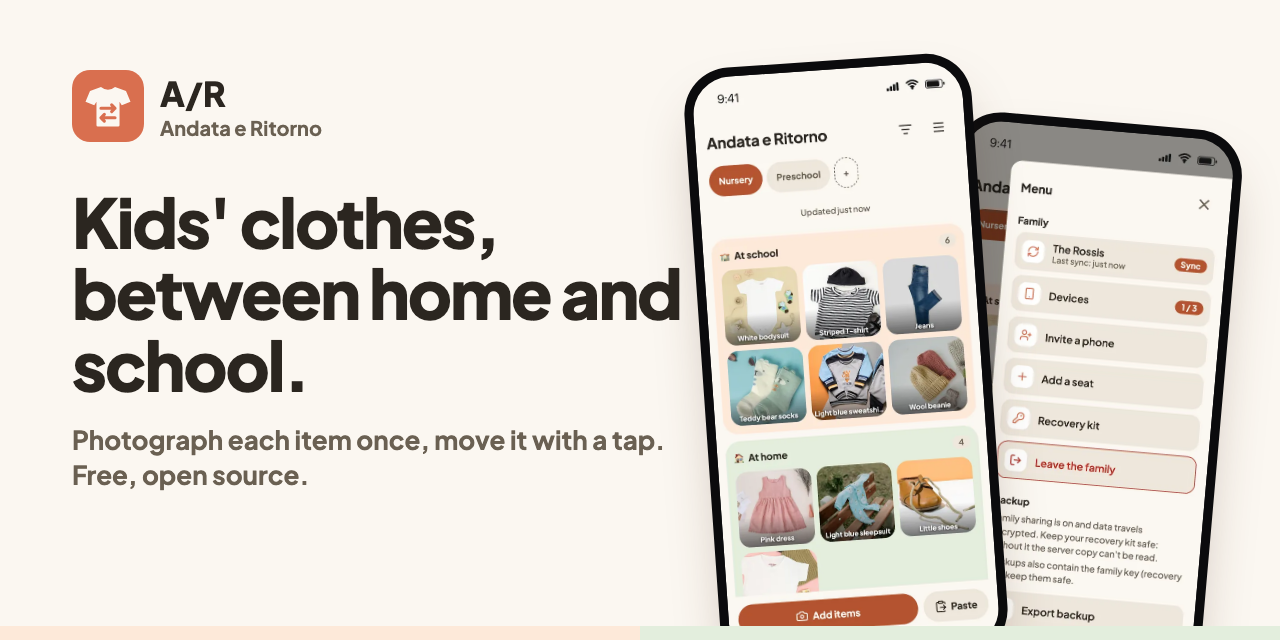
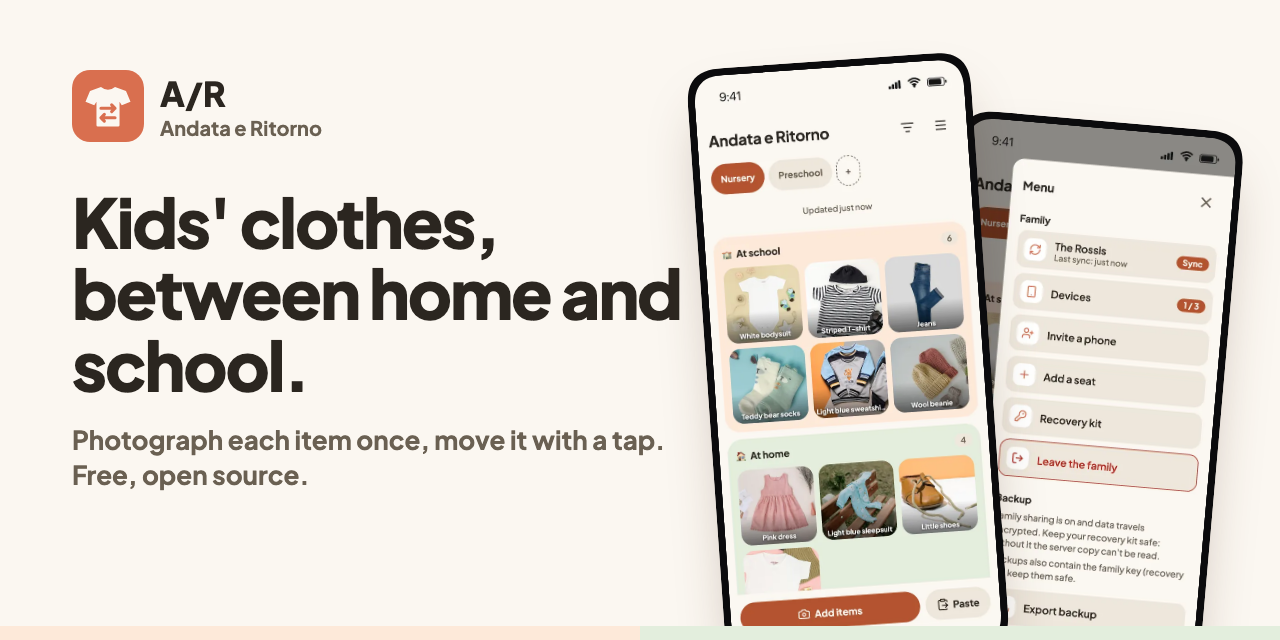
Landing: squarer iPhone frame (continuous corners, thinner bezel)

diff --git a/landing/public/styles.css b/landing/public/styles.css
@@ -100,10 +100,10 @@ p { margin: 0 0 var(--space-md); }
 /* ---- Phone frame around real screenshots ---- */
 /* An iPhone-like body: titanium rim, black bezel, Dynamic Island, side buttons. The screenshots carry
    their own status bar (9:41, signal, Wi-Fi, battery) and home indicator. */
-.phone { position: relative; margin: 0; width: 100%; max-width: 300px; aspect-ratio: 390 / 844; padding: 9px; border-radius: 50px; background: #0b0b0d; box-shadow: 0 0 0 2px var(--color-rim), inset 0 0 0 1px rgb(255 255 255 / 0.08), var(--shadow-device); }
-.phone::before { content: ''; position: absolute; top: 20px; left: 50%; width: 31%; height: 26px; transform: translateX(-50%); border-radius: var(--radius-pill); background: #000; z-index: 1; }
+.phone { position: relative; margin: 0; width: 100%; max-width: 300px; aspect-ratio: 390 / 844; padding: 7px; border-radius: 44px; corner-shape: superellipse(1.6); background: #0b0b0d; box-shadow: 0 0 0 2px var(--color-rim), inset 0 0 0 1px rgb(255 255 255 / 0.08), var(--shadow-device); }
+.phone::before { content: ''; position: absolute; top: 16px; left: 50%; width: 31%; height: 26px; transform: translateX(-50%); border-radius: var(--radius-pill); background: #000; z-index: 1; }
 .phone::after { content: ''; position: absolute; left: -4px; top: 19%; width: 3px; height: 7%; border-radius: 2px 0 0 2px; background: var(--color-rim); box-shadow: 0 54px 0 0 var(--color-rim); }
-.phone img { display: block; width: 100%; height: 100%; object-fit: cover; object-position: top; border-radius: 41px; }
+.phone img { display: block; width: 100%; height: 100%; object-fit: cover; object-position: top; border-radius: 38px; corner-shape: superellipse(1.6); }
 .shot { margin: 0; display: grid; justify-items: center; gap: var(--space-sm); }
 .shot figcaption { font-size: var(--text-sm); color: var(--color-muted); text-align: center; max-width: 30ch; }
 
@@ -137,9 +137,9 @@ p { margin: 0 0 var(--space-md); }
 .stage .n { display: inline-grid; place-items: center; width: 36px; height: 36px; margin-bottom: var(--space-md); border-radius: var(--radius-pill); background: var(--color-accent-strong); color: var(--color-on-accent); font-weight: 800; font-size: var(--text-sm); }
 .stage h3 { margin-bottom: var(--space-sm); }
 .stage p { color: var(--color-muted); margin: 0 0 var(--space-lg); }
-.stage-shot { position: relative; margin-top: auto; align-self: center; width: min(100%, 280px); height: 300px; padding: 8px 8px 0; border-radius: 40px 40px 0 0; background: #0b0b0d; box-shadow: 0 0 0 2px var(--color-rim), var(--shadow-device); }
-.stage-shot[data-pos="top"]::before { content: ''; position: absolute; top: 18px; left: 50%; width: 30%; height: 24px; transform: translateX(-50%); border-radius: var(--radius-pill); background: #000; }
-.stage-shot img { width: 100%; height: 100%; object-fit: cover; object-position: top; border-radius: 32px 32px 0 0; }
+.stage-shot { position: relative; margin-top: auto; align-self: center; width: min(100%, 280px); height: 300px; padding: 7px 7px 0; border-radius: 42px 42px 0 0; corner-shape: superellipse(1.6); background: #0b0b0d; box-shadow: 0 0 0 2px var(--color-rim), var(--shadow-device); }
+.stage-shot[data-pos="top"]::before { content: ''; position: absolute; top: 15px; left: 50%; width: 30%; height: 24px; transform: translateX(-50%); border-radius: var(--radius-pill); background: #000; }
+.stage-shot img { width: 100%; height: 100%; object-fit: cover; object-position: top; border-radius: 36px 36px 0 0; corner-shape: superellipse(1.6); }
 .stage-shot[data-pos="middle"] img { object-position: center 62%; }
 .stage-shot[data-pos="bottom"] img { object-position: bottom; border-radius: 0; }
 
@@ -200,9 +200,9 @@ section > .wrap > h2 { margin-bottom: var(--space-lg); }
 .doc li { margin-bottom: var(--space-xs); }
 .doc .shots { display: flex; flex-wrap: wrap; gap: var(--space-lg); margin: var(--space-lg) 0; }
 .doc .shots .shot { flex: 1 1 200px; max-width: 240px; }
-.doc .shots .phone { max-width: 220px; padding: 7px; border-radius: 38px; }
-.doc .shots .phone img { border-radius: 31px; }
-.doc .shots .phone::before { top: 15px; height: 19px; }
+.doc .shots .phone { max-width: 220px; padding: 5px; border-radius: 33px; }
+.doc .shots .phone img { border-radius: 28px; }
+.doc .shots .phone::before { top: 11px; height: 19px; }
 .doc .shots .phone::after { box-shadow: 0 40px 0 0 var(--color-rim); }
 .callout { margin: var(--space-md) 0; padding: var(--space-md) var(--space-lg); border-radius: var(--radius-tile); background: var(--color-school); }
 .callout strong { display: block; }
